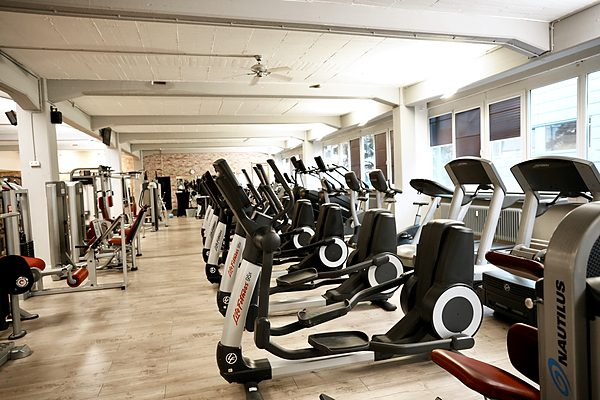
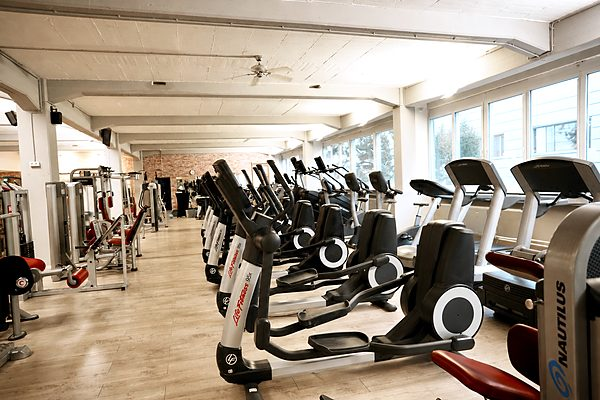
Cardio-Aufnahme durch die überarbeitete Fassung ersetzt
Gleicher Raum, gleiche Geräte, gleiche Anordnung — heller ausgeleuchtet
und mit offener Fensterfront. Läuft durch dieselbe Bearbeitung wie die
übrigen Aufnahmen, damit der Streifen einheitlich bleibt.

Die Originaldatei Cardio.JPG bleibt im Ordner liegen.

diff --git a/tools/grade.py b/tools/grade.py
@@ -144,7 +144,7 @@ def speichern(im, basis, breiten):
 PLAN = {
     "Kursraum.jpg":            ("kursraum",     ["streifen"], (0.0, 0.22, 1.0, 0.72)),
     "trainingsfläche 1..JPG":  ("kraftbereich", ["streifen"]),
-    "Cardio.JPG":              ("cardio",       ["streifen"]),
+    "Cardio-neu.png":          ("cardio",       ["streifen"]),
     "Milon zirkel.JPG":        ("milon",        ["streifen"]),
     "Sauna Ruheraum.png":      ("sauna",        ["streifen"]),
     "Umkleide.JPG":            ("umkleide",     ["streifen"]),
